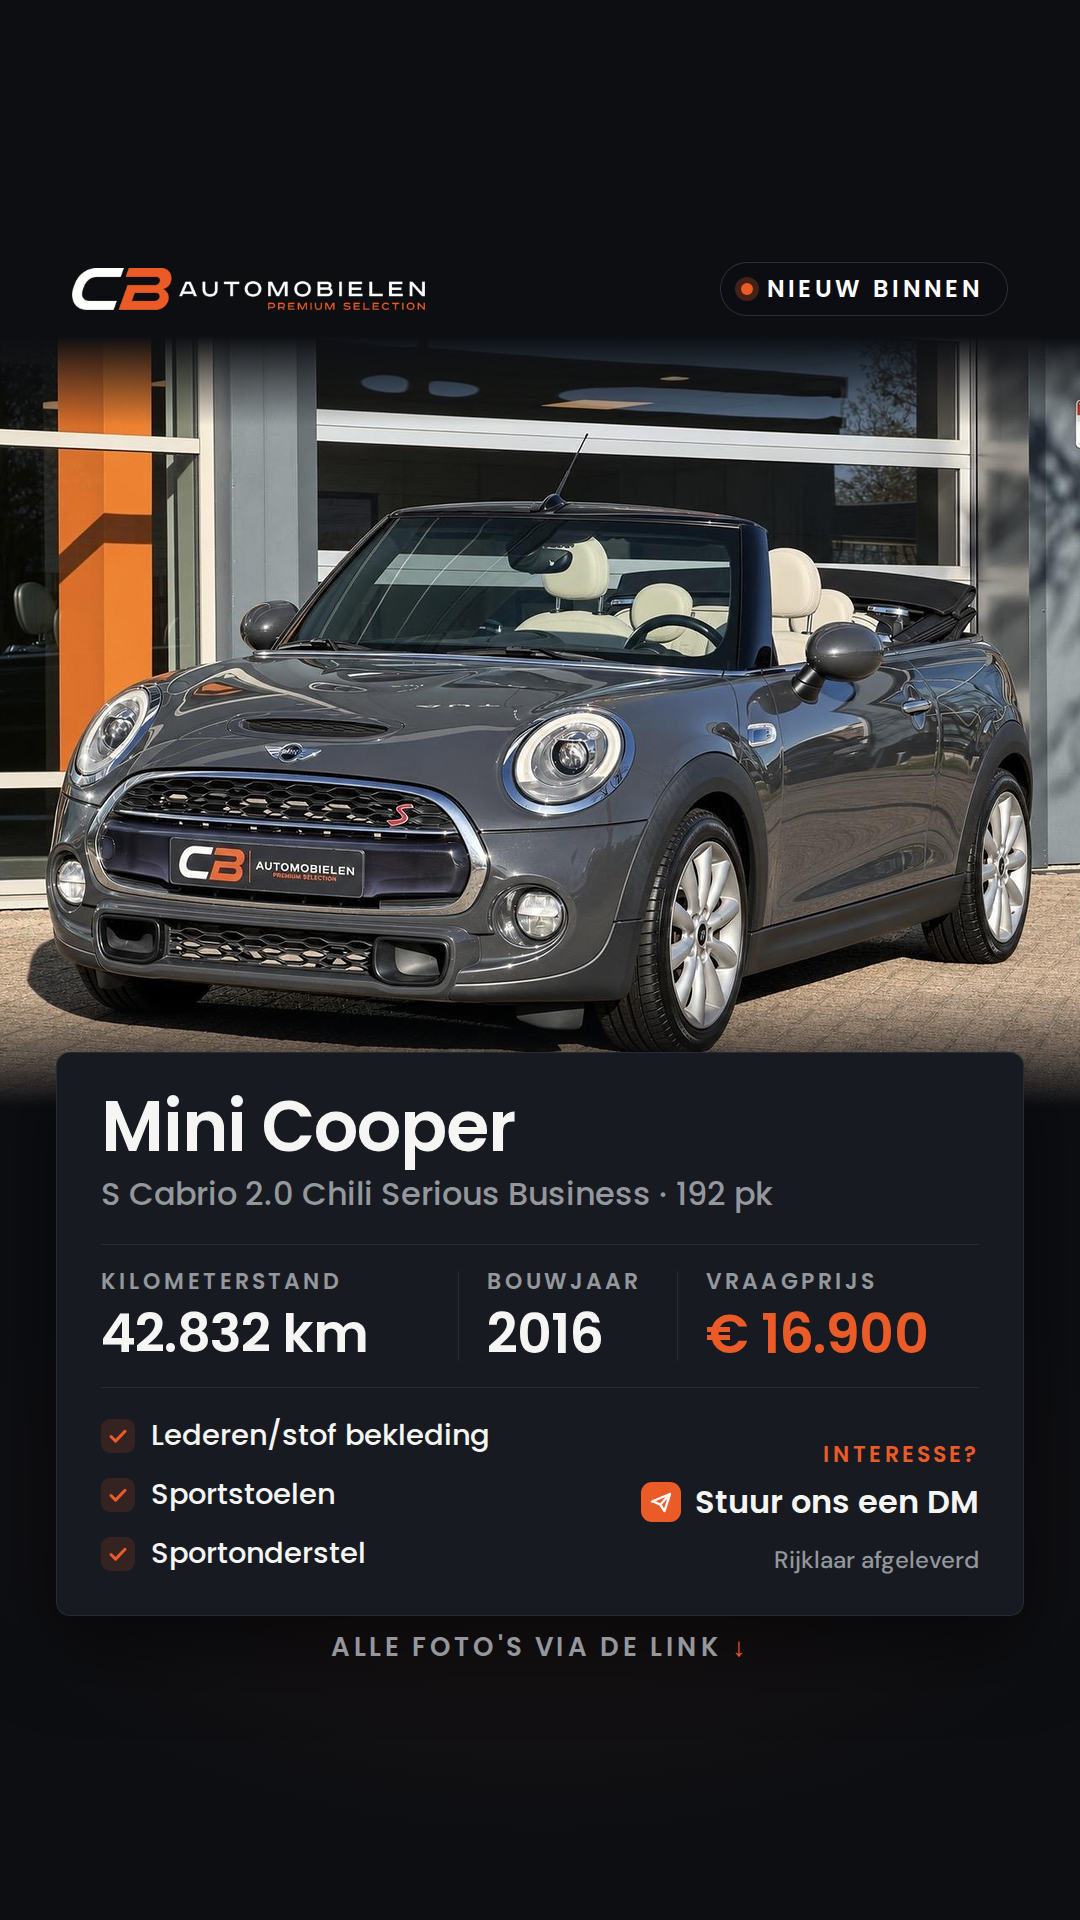
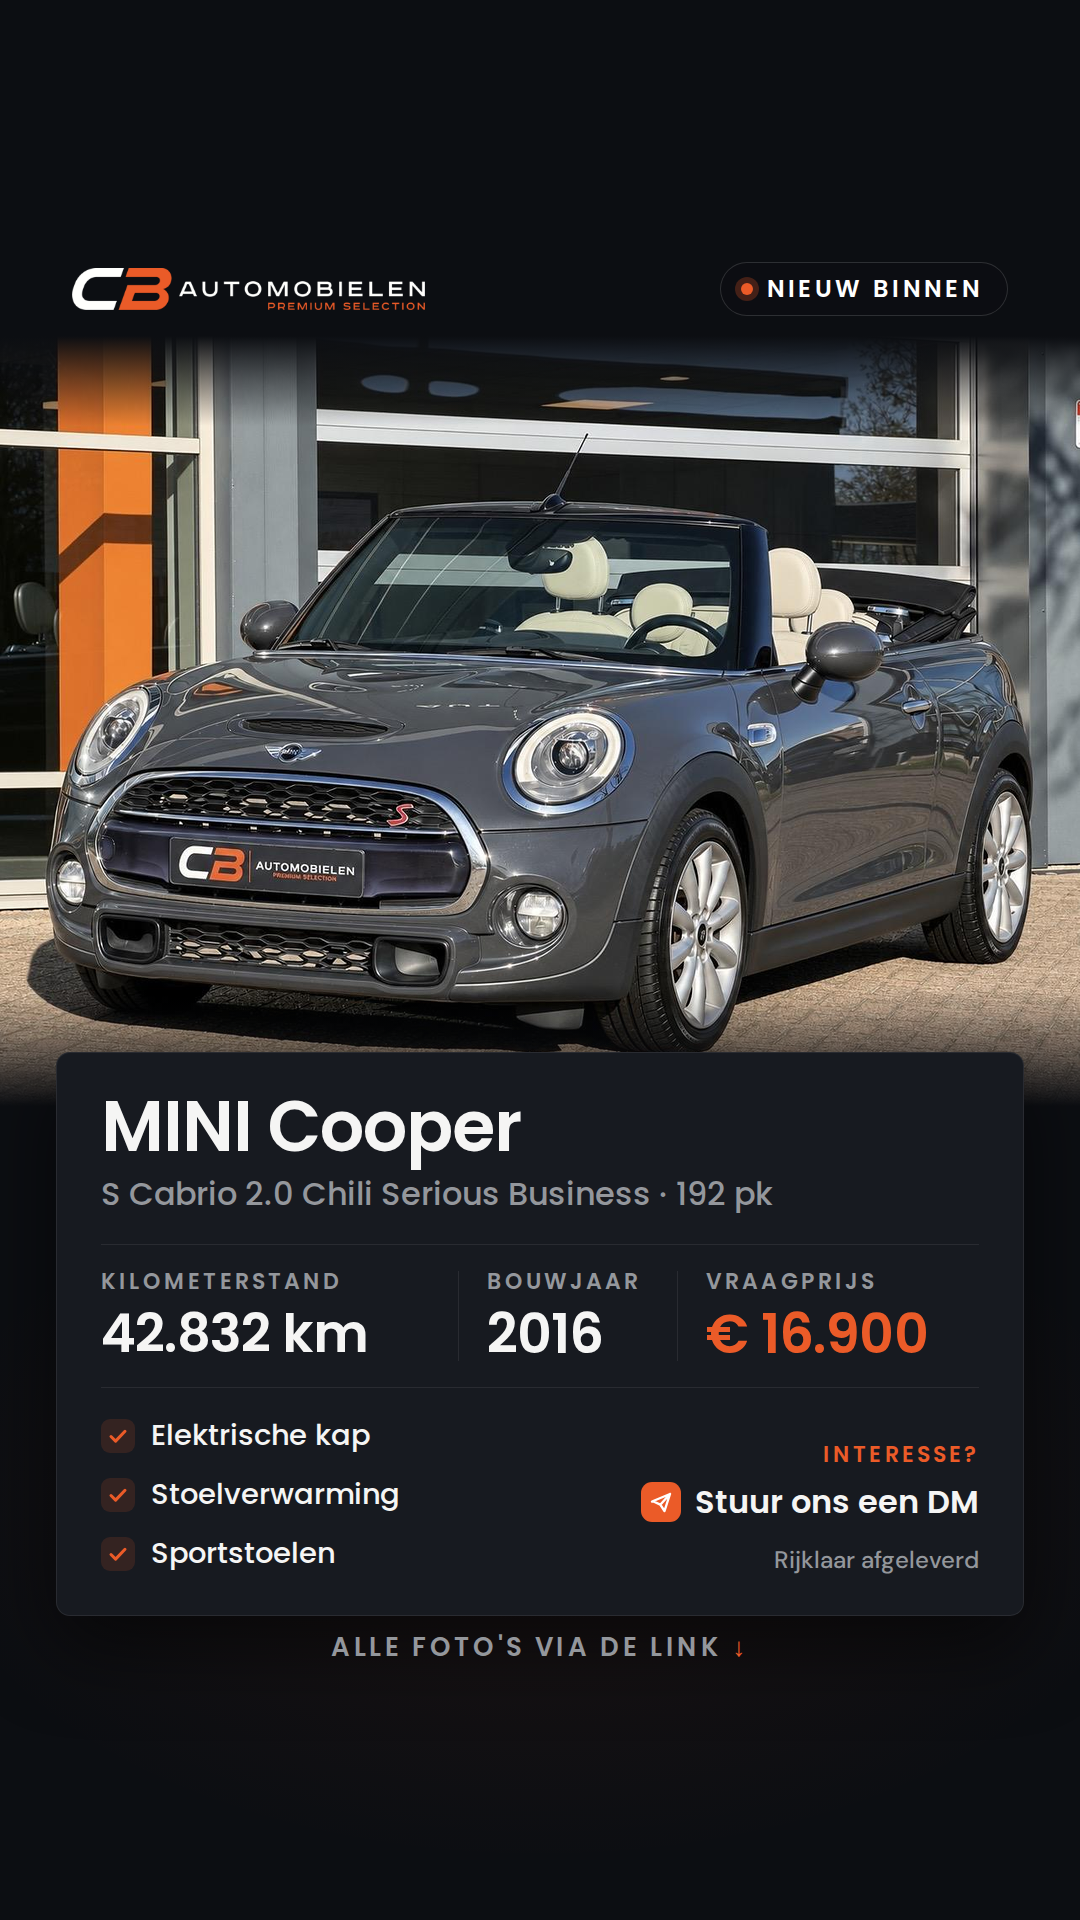
rapport 2026-11-16 08:59

Changed region(s): [[0.1528, 0.7188, 0.4278, 0.8125], [0.1528, 0.5625, 0.4889, 0.625]]

diff --git a/stories/2026-11-16/README.md b/stories/2026-11-16/README.md
@@ -1,28 +1,5 @@
 # Stories 2026-11-16
 
-## Suzuki Swift 1.2 Comfort
-
-- Prijs: € 11.400 · 2018 · 82.484 km · 90 pk
-- Link voor de linksticker: https://www.cbautomobielen.nl/aanbod/suzuki-swift-1-2-comfort-58194725
-- Afbeelding: https://raw.githubusercontent.com/CBAutmobielen/cb-instagram-automaat/main/stories/2026-11-16/58194725.png
-
-**Tekstideeën voor in je verhaal:**
-
-```
-Net binnen! 🔥 Suzuki Swift 1.2 Comfort
-Airco, lederen multifunctiestuur en bluetooth.
-2018 · 82.484 km · 90 pk · € 11.400
-Tik op de link voor alle foto's 👆
-```
-
-```
-Wie wordt de nieuwe eigenaar? 🔑
-Suzuki Swift met airco, lederen multifunctiestuur en bluetooth.
-Nu bij CB Automobielen in Sneek · € 11.400
-```
-
-![story](58194725.png)
-
 ## MINI Cooper S Cabrio 2.0 Chili Serious Business
 
 - Prijs: € 16.900 · 2016 · 42.832 km · 192 pk
@@ -32,15 +9,15 @@ Nu bij CB Automobielen in Sneek · € 11.400
 **Tekstideeën voor in je verhaal:**
 
 ```
-Net binnen! 🔥 Mini Cooper S Cabrio 2.0 Chili Serious Business
-Lederen/stof bekleding, sportstoelen en sportonderstel.
+Net binnen! 🔥 MINI Cooper S Cabrio 2.0 Chili Serious Business
+Elektrische kap, stoelverwarming en sportstoelen.
 2016 · 42.832 km · 192 pk · € 16.900
 Tik op de link voor alle foto's 👆
 ```
 
 ```
 Wie wordt de nieuwe eigenaar? 🔑
-Mini Cooper met lederen/stof bekleding, sportstoelen en sportonderstel.
+MINI Cooper met elektrische kap, stoelverwarming en sportstoelen.
 Nu bij CB Automobielen in Sneek · € 16.900
 ```
 
@@ -68,3 +45,26 @@ Nu bij CB Automobielen in Sneek · € 9.800
 ```
 
 ![story](57700474.png)
+
+## Suzuki Swift 1.2 Comfort
+
+- Prijs: € 11.400 · 2018 · 82.484 km · 90 pk
+- Link voor de linksticker: https://www.cbautomobielen.nl/aanbod/suzuki-swift-1-2-comfort-58194725
+- Afbeelding: https://raw.githubusercontent.com/CBAutmobielen/cb-instagram-automaat/main/stories/2026-11-16/58194725.png
+
+**Tekstideeën voor in je verhaal:**
+
+```
+Net binnen! 🔥 Suzuki Swift 1.2 Comfort
+Airco, lederen multifunctiestuur en bluetooth.
+2018 · 82.484 km · 90 pk · € 11.400
+Tik op de link voor alle foto's 👆
+```
+
+```
+Wie wordt de nieuwe eigenaar? 🔑
+Suzuki Swift met airco, lederen multifunctiestuur en bluetooth.
+Nu bij CB Automobielen in Sneek · € 11.400
+```
+
+![story](58194725.png)
